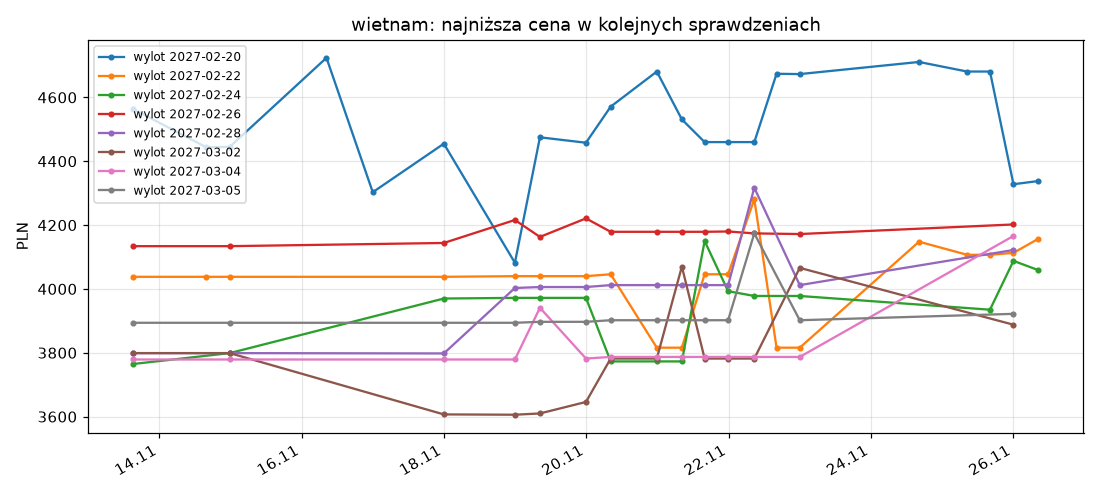
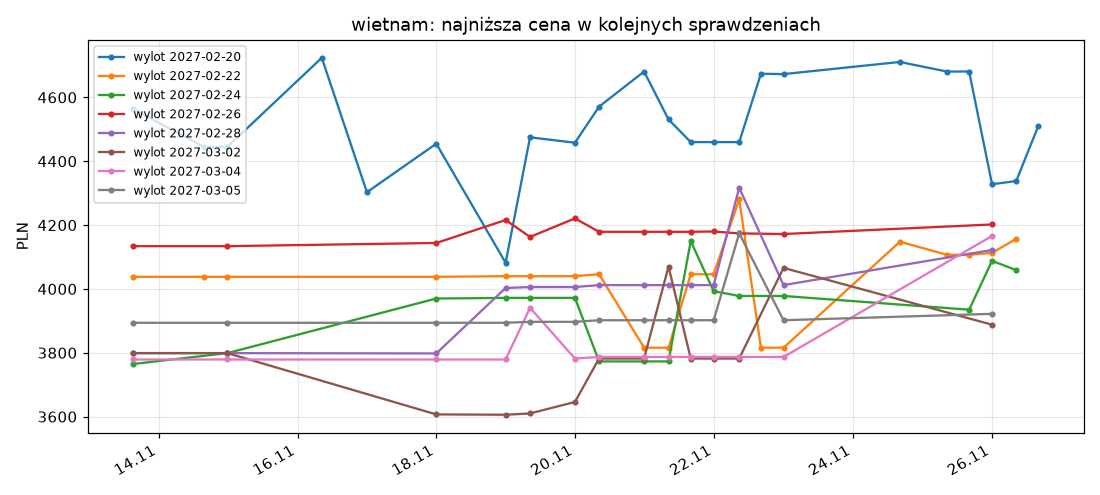
Ceny: 2026-11-27 15:19 UTC

diff --git a/reports/REPORT.md b/reports/REPORT.md
@@ -1,38 +1,38 @@
 # Raport cen lotów: Polska/Praga → Sri Lanka / Wietnam (powrót do Krakowa)
 
-Ostatnie sprawdzenie: **2026-11-27 08:23** (czas PL) · liczba sprawdzeń: 29 · od 2026-11-14
+Ostatnie sprawdzenie: **2026-11-27 16:00** (czas PL) · liczba sprawdzeń: 30 · od 2026-11-14
 
 ## TOP z ostatniego sprawdzenia
 
 | # | Cena | Trasa | Daty | Linie | Przesiadki |
 |---|---|---|---|---|---|
-| 1 | 2 727 PLN | KRK→CMB | 2027-02-24 ↔ 2027-03-16 (powrót do KRK) | Air Arabia | 1 |
-| 2 | 2 738 PLN | KRK→CMB | 2027-02-20 ↔ 2027-03-12 (powrót do KRK) | Air Arabia | 1 |
-| 3 | 2 744 PLN | KRK→CMB | 2027-02-24 ↔ 2027-03-16 (powrót do KRK) | Air Arabia | 1 |
+| 1 | 2 736 PLN | KRK→CMB | 2027-02-20 ↔ 2027-03-12 (powrót do KRK) | Air Arabia | 1 |
+| 2 | 2 754 PLN | KRK→CMB | 2027-02-20 ↔ 2027-03-12 (powrót do KRK) | Air Arabia | 1 |
+| 3 | 4 042 PLN | KRK→CMB | 2027-02-20 ↔ 2027-03-12 (powrót do KRK) | flydubai | 1 |
 
 ## Najtaniej teraz – osobno dla każdego kraju
 
-**sri_lanka** – najtaniej z Krakowa: 2 727 PLN
+**sri_lanka** – najtaniej z Krakowa: 2 736 PLN
 
 | Cena | Trasa | Daty | Linie | Przesiadki |
 |---|---|---|---|---|
-| 2 727 PLN | KRK→CMB | 2027-02-24 ↔ 2027-03-16 (powrót do KRK) | Air Arabia | 1 |
-| 2 738 PLN | KRK→CMB | 2027-02-20 ↔ 2027-03-12 (powrót do KRK) | Air Arabia | 1 |
-| 2 744 PLN | KRK→CMB | 2027-02-24 ↔ 2027-03-16 (powrót do KRK) | Air Arabia | 1 |
+| 2 736 PLN | KRK→CMB | 2027-02-20 ↔ 2027-03-12 (powrót do KRK) | Air Arabia | 1 |
+| 2 754 PLN | KRK→CMB | 2027-02-20 ↔ 2027-03-12 (powrót do KRK) | Air Arabia | 1 |
+| 4 042 PLN | KRK→CMB | 2027-02-20 ↔ 2027-03-12 (powrót do KRK) | flydubai | 1 |
 
-**wietnam** – najtaniej z Krakowa: 4 059 PLN
+**wietnam** – najtaniej z Krakowa: 4 510 PLN
 
 | Cena | Trasa | Daty | Linie | Przesiadki |
 |---|---|---|---|---|
-| 4 059 PLN | KRK→HAN | 2027-02-24 ↔ 2027-03-16 (powrót do KRK) | Lufthansa, Qatar Airways | 2 |
-| 4 088 PLN | KRK→SGN | 2027-02-24 ↔ 2027-03-16 (powrót do KRK) | KLM, Vietnam Airlines | 2 |
-| 4 122 PLN | KRK→SGN | 2027-02-24 ↔ 2027-03-16 (powrót do KRK) | KLM, Malaysia Airlines | 2 |
+| 4 510 PLN | KRK→HAN | 2027-02-20 ↔ 2027-03-12 (powrót do KRK) | Lufthansa, Qatar Airways | 2 |
+| 4 979 PLN | KRK→HAN | 2027-02-20 ↔ 2027-03-12 (powrót do KRK) | Emirates, flydubai | 1 |
+| 5 013 PLN | KRK→SGN | 2027-02-20 ↔ 2027-03-12 (powrót do KRK) | Lufthansa, Qatar Airways | 2 |
 
 ## 3 najniższe ceny każdego dnia (ostatnie 14 dni, ze wszystkich sprawdzeń)
 
 | Dzień | 1. | 2. | 3. |
 |---|---|---|---|
-| 2026-11-27 | 2 727 PLN KRK→CMB 2027-02-24 | 2 738 PLN KRK→CMB 2027-02-20 | 2 744 PLN KRK→CMB 2027-02-26 |
+| 2026-11-27 | 2 727 PLN KRK→CMB 2027-02-24 | 2 736 PLN KRK→CMB 2027-02-20 | 2 744 PLN KRK→CMB 2027-02-26 |
 | 2026-11-26 | 2 736 PLN KRK→CMB 2027-02-20 | 2 754 PLN KRK→CMB 2027-02-20 | 2 877 PLN KRK→CMB 2027-02-22 |
 | 2026-11-25 | 2 887 PLN KRK→CMB 2027-02-22 | 2 904 PLN KRK→CMB 2027-02-22 | 3 737 PLN KRK→CMB 2027-02-22 |
 | 2026-11-23 | 2 727 PLN KRK→CMB 2027-02-24 | 2 733 PLN KRK→CMB 2027-02-20 | 2 739 PLN KRK→CMB 2027-02-26 |
@@ -50,7 +50,7 @@ Ostatnie sprawdzenie: **2026-11-27 08:23** (czas PL) · liczba sprawdzeń: 29 ·
 
 | Kraj | Wylot | Teraz | Min. widziane | Mediana | Zmiana od 1. sprawdzenia | Z Krakowa teraz |
 |---|---|---|---|---|---|---|
-| sri_lanka | 2027-02-20 ↔ 2027-03-12 | 2 738 PLN | 2 682 PLN | 2 730 PLN | -1 873 (-41%) | 2 738 PLN |
+| sri_lanka | 2027-02-20 ↔ 2027-03-12 | 2 736 PLN | 2 682 PLN | 2 733 PLN | -1 875 (-41%) | 2 736 PLN |
 | sri_lanka | 2027-02-22 ↔ 2027-03-14 | 2 951 PLN | 2 877 PLN | 3 090 PLN | -112 (-4%) | 2 951 PLN |
 | sri_lanka | 2027-02-24 ↔ 2027-03-16 | 2 727 PLN | 2 727 PLN | 2 839 PLN | -17 (-1%) | 2 727 PLN |
 | sri_lanka | 2027-02-26 ↔ 2027-03-18 | 2 744 PLN | 2 739 PLN | 2 964 PLN | -75 (-3%) | 2 744 PLN |
@@ -58,7 +58,7 @@ Ostatnie sprawdzenie: **2026-11-27 08:23** (czas PL) · liczba sprawdzeń: 29 ·
 | sri_lanka | 2027-03-02 ↔ 2027-03-22 | 2 941 PLN | 2 910 PLN | 2 949 PLN | +31 (+1%) | 2 941 PLN |
 | sri_lanka | 2027-03-04 ↔ 2027-03-24 | 2 936 PLN | 2 874 PLN | 2 922 PLN | -1 272 (-30%) | 2 936 PLN |
 | sri_lanka | 2027-03-05 ↔ 2027-03-25 | 2 953 PLN | 2 889 PLN | 2 939 PLN | +64 (+2%) | 2 953 PLN |
-| wietnam | 2027-02-20 ↔ 2027-03-12 | 4 338 PLN | 4 082 PLN | 4 468 PLN | -225 (-5%) | 4 338 PLN |
+| wietnam | 2027-02-20 ↔ 2027-03-12 | 4 510 PLN | 4 082 PLN | 4 475 PLN | -53 (-1%) | 4 510 PLN |
 | wietnam | 2027-02-22 ↔ 2027-03-14 | 4 157 PLN | 3 816 PLN | 4 040 PLN | +119 (+3%) | 4 157 PLN |
 | wietnam | 2027-02-24 ↔ 2027-03-16 | 4 059 PLN | 3 765 PLN | 3 972 PLN | +294 (+8%) | 4 059 PLN |
 | wietnam | 2027-02-26 ↔ 2027-03-18 | 4 202 PLN | 4 134 PLN | 4 179 PLN | +68 (+2%) | 4 495 PLN |
@@ -77,10 +77,10 @@ Ostatnie sprawdzenie: **2026-11-27 08:23** (czas PL) · liczba sprawdzeń: 29 ·
 
 | Godzina (PL) | Odchylenie | Liczba pomiarów |
 |---|---|---|
-| 00:00 | +0.3% | 16 |
+| 00:00 | +0.2% | 16 |
 | 08:00 | +5.3% | 76 |
 | 15:00 | +3.8% | 36 |
-| 16:00 | +0.1% | 12 |
+| 16:00 | +0.1% | 14 |
 | 23:00 | +1.0% | 115 |
 
 ## Cena a liczba dni do wylotu
@@ -90,15 +90,17 @@ Ostatnie sprawdzenie: **2026-11-27 08:23** (czas PL) · liczba sprawdzeń: 29 ·
 | 105–111 | 3 464 PLN | 28 |
 | 98–104 | 3 514 PLN | 100 |
 | 91–97 | 3 573 PLN | 91 |
-| 84–90 | 3 718 PLN | 36 |
+| 84–90 | 3 713 PLN | 38 |
 
 ## Błędy w ostatnim sprawdzeniu
 
 ```
-wietnam 2027-02-20→2027-03-12: KTW-DAD: TimeoutError: error sending request for url (https://www.google.com/_/FlightsFrontendUi/data/travel.frontend.flights.FlightsFrontendService/GetShoppingResults?f.sid=6697578230526900010&bl=boq_travel-frontend-flights-ui_20260303.06_p0&hl=pl&gl=US&curr=PLN&soc-app=162&soc-platform=1&soc-device=1&rt=c) > operation timed out
-sri_lanka 2027-02-22→2027-03-14: PRG-CMB: TimeoutError: error sending request for url (https://www.google.com/_/FlightsFrontendUi/data/travel.frontend.flights.FlightsFrontendService/GetShoppingResults?f.sid=6697578230526900010&bl=boq_travel-frontend-flights-ui_20260303.06_p0&hl=pl&gl=US&curr=PLN&soc-app=162&soc-platform=1&soc-device=1&rt=c) > operation timed out
-wietnam 2027-02-22→2027-03-14: KTW-DAD: TimeoutError: error sending request for url (https://www.google.com/_/FlightsFrontendUi/data/travel.frontend.flights.FlightsFrontendService/GetShoppingResults?f.sid=6697578230526900010&bl=boq_travel-frontend-flights-ui_20260303.06_p0&hl=pl&gl=US&curr=PLN&soc-app=162&soc-platform=1&soc-device=1&rt=c) > operation timed out
-wietnam 2027-02-24→2027-03-16: KTW-SGN: TimeoutError: error sending request for url (https://www.google.com/_/FlightsFrontendUi/data/travel.frontend.flights.FlightsFrontendService/GetShoppingResults?f.sid=6697578230526900010&bl=boq_travel-frontend-flights-ui_20260303.06_p0&hl=pl&gl=US&curr=PLN&soc-app=162&soc-platform=1&soc-device=1&rt=c) > operation timed out; KTW-HAN: TimeoutError: error sending request for url (https://www.google.com/_/FlightsFrontendUi/data/travel.frontend.flights.FlightsFrontendService/GetShoppingResults?f.sid=6697578230526900010&bl=boq_travel-frontend-flights-ui_20260303.06_p0&hl=pl&gl=US&curr=PLN&soc-app=162&soc-platform=1&soc-device=1&rt=c) > operation timed out; KTW-DAD: pominięte – Google blokuje zapytania; WAW-SGN: pominięte – Google blokuje zapytania; WAW-HAN: pominięte – Google blokuje zapytania; WAW-DAD: pominięte – Google blokuje zapytania; PRG-SGN: pominięte – Google blokuje zapytania; PRG-HAN: pominięte – Google blokuje zapytania; PRG-DAD: pominięte – Google blokuje zapytania
+sri_lanka 2027-02-20→2027-03-12: WAW-CMB: TimeoutError: error sending request for url (https://www.google.com/_/FlightsFrontendUi/data/travel.frontend.flights.FlightsFrontendService/GetShoppingResults?f.sid=6697578230526900010&bl=boq_travel-frontend-flights-ui_20260303.06_p0&hl=pl&gl=US&curr=PLN&soc-app=162&soc-platform=1&soc-device=1&rt=c) > operation timed out
+wietnam 2027-02-20→2027-03-12: KTW-DAD: TimeoutError: error sending request for url (https://www.google.com/_/FlightsFrontendUi/data/travel.frontend.flights.FlightsFrontendService/GetShoppingResults?f.sid=6697578230526900010&bl=boq_travel-frontend-flights-ui_20260303.06_p0&hl=pl&gl=US&curr=PLN&soc-app=162&soc-platform=1&soc-device=1&rt=c) > operation timed out; WAW-HAN: TimeoutError: error sending request for url (https://www.google.com/_/FlightsFrontendUi/data/travel.frontend.flights.FlightsFrontendService/GetShoppingResults?f.sid=6697578230526900010&bl=boq_travel-frontend-flights-ui_20260303.06_p0&hl=pl&gl=US&curr=PLN&soc-app=162&soc-platform=1&soc-device=1&rt=c) > operation timed out; WAW-DAD: TimeoutError: error sending request for url (https://www.google.com/_/FlightsFrontendUi/data/travel.frontend.flights.FlightsFrontendService/GetShoppingResults?f.sid=6697578230526900010&bl=boq_travel-frontend-flights-ui_20260303.06_p0&hl=pl&gl=US&curr=PLN&soc-app=162&soc-platform=1&soc-device=1&rt=c) > operation timed out; PRG-SGN: pominięte – Google blokuje zapytania; PRG-HAN: pominięte – Google blokuje zapytania; PRG-DAD: pominięte – Google blokuje zapytania
+sri_lanka 2027-02-22→2027-03-14: KRK-CMB: pominięte – Google blokuje zapytania; KTW-CMB: pominięte – Google blokuje zapytania; WAW-CMB: pominięte – Google blokuje zapytania; PRG-CMB: pominięte – Google blokuje zapytania
+wietnam 2027-02-22→2027-03-14: KRK-SGN: pominięte – Google blokuje zapytania; KRK-HAN: pominięte – Google blokuje zapytania; KRK-DAD: pominięte – Google blokuje zapytania; KTW-SGN: pominięte – Google blokuje zapytania; KTW-HAN: pominięte – Google blokuje zapytania; KTW-DAD: pominięte – Google blokuje zapytania; WAW-SGN: pominięte – Google blokuje zapytania; WAW-HAN: pominięte – Google blokuje zapytania; WAW-DAD: pominięte – Google blokuje zapytania; PRG-SGN: pominięte – Google blokuje zapytania; PRG-HAN: pominięte – Google blokuje zapytania; PRG-DAD: pominięte – Google blokuje zapytania
+sri_lanka 2027-02-24→2027-03-16: KRK-CMB: pominięte – Google blokuje zapytania; KTW-CMB: pominięte – Google blokuje zapytania; WAW-CMB: pominięte – Google blokuje zapytania; PRG-CMB: pominięte – Google blokuje zapytania
+wietnam 2027-02-24→2027-03-16: KRK-SGN: pominięte – Google blokuje zapytania; KRK-HAN: pominięte – Google blokuje zapytania; KRK-DAD: pominięte – Google blokuje zapytania; KTW-SGN: pominięte – Google blokuje zapytania; KTW-HAN: pominięte – Google blokuje zapytania; KTW-DAD: pominięte – Google blokuje zapytania; WAW-SGN: pominięte – Google blokuje zapytania; WAW-HAN: pominięte – Google blokuje zapytania; WAW-DAD: pominięte – Google blokuje zapytania; PRG-SGN: pominięte – Google blokuje zapytania; PRG-HAN: pominięte – Google blokuje zapytania; PRG-DAD: pominięte – Google blokuje zapytania
 sri_lanka 2027-02-26→2027-03-18: KRK-CMB: pominięte – Google blokuje zapytania; KTW-CMB: pominięte – Google blokuje zapytania; WAW-CMB: pominięte – Google blokuje zapytania; PRG-CMB: pominięte – Google blokuje zapytania
 wietnam 2027-02-26→2027-03-18: KRK-SGN: pominięte – Google blokuje zapytania; KRK-HAN: pominięte – Google blokuje zapytania; KRK-DAD: pominięte – Google blokuje zapytania; KTW-SGN: pominięte – Google blokuje zapytania; KTW-HAN: pominięte – Google blokuje zapytania; KTW-DAD: pominięte – Google blokuje zapytania; WAW-SGN: pominięte – Google blokuje zapytania; WAW-HAN: pominięte – Google blokuje zapytania; WAW-DAD: pominięte – Google blokuje zapytania; PRG-SGN: pominięte – Google blokuje zapytania; PRG-HAN: pominięte – Google blokuje zapytania; PRG-DAD: pominięte – Google blokuje zapytania
 sri_lanka 2027-02-28→2027-03-20: KRK-CMB: pominięte – Google blokuje zapytania; KTW-CMB: pominięte – Google blokuje zapytania; WAW-CMB: pominięte – Google blokuje zapytania; PRG-CMB: pominięte – Google blokuje zapytania
